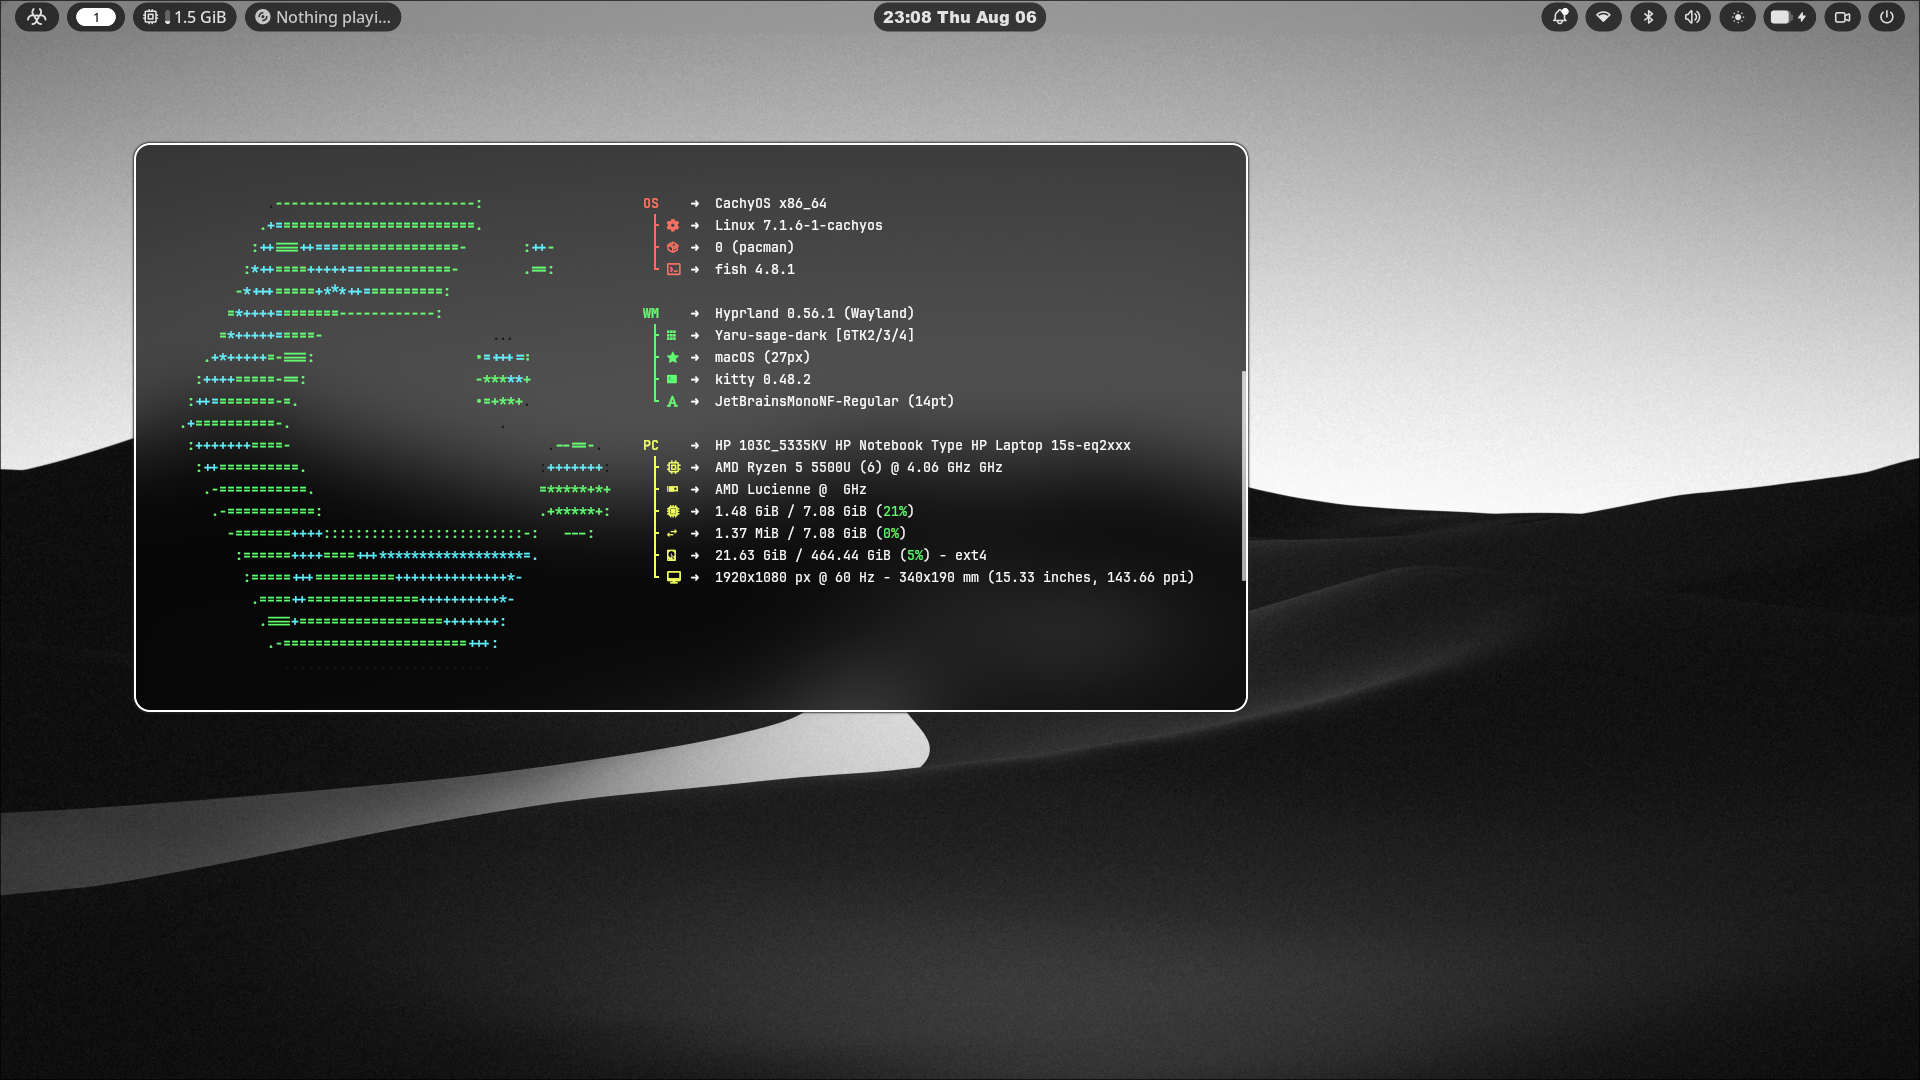
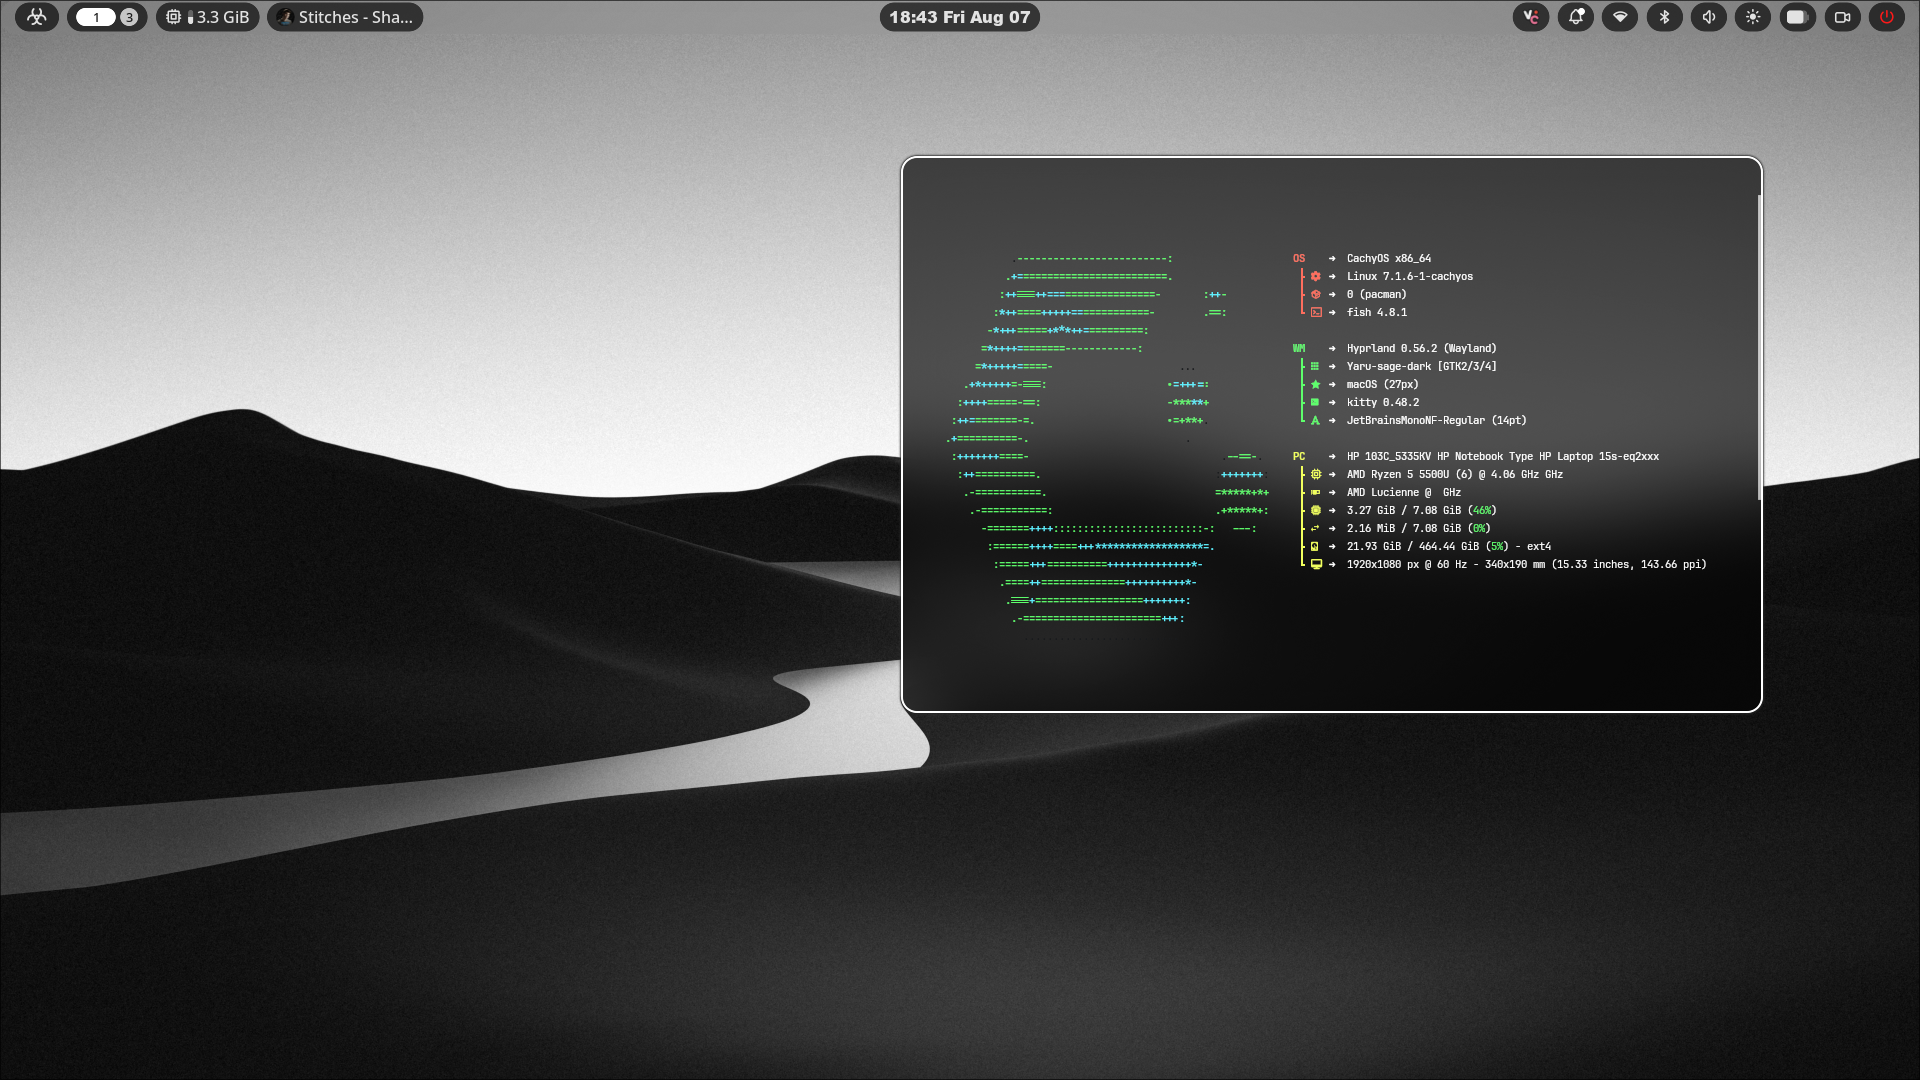
files

diff --git a/vesktop/themes/sys24_monochrome.css b/vesktop/themes/sys24_monochrome.css
@@ -1,0 +1,149 @@
+/* import theme modules */
+@import url('https://refact0r.github.io/system24/build/system24.css');
+
+body {
+    /* font, change to '' for default discord font */
+    --font: 'DM Mono'; /* change to '' for default discord font */
+    --code-font: 'DM Mono'; /* change to '' for default discord font */
+    font-weight: 400; /* text font weight. 300 is light, 400 is normal. DOES NOT AFFECT BOLD TEXT */
+    letter-spacing: -0.05ch; /* decreases letter spacing for better readability. recommended on monospace fonts.*/
+
+    /* sizes */
+    --gap: 12px; /* spacing between panels */
+    --divider-thickness: 4px; /* thickness of unread messages divider and highlighted message borders */
+    --border-thickness: 2px; /* thickness of borders around main panels. DOES NOT AFFECT OTHER BORDERS */
+    --border-hover-transition: 0.2s ease; /* transition for borders when hovered */
+
+    /* animation/transition options */
+    --animations: on; /* off: disable animations/transitions, on: enable animations/transitions */
+    --list-item-transition: 0.2s ease; /* transition for list items */
+    --dms-icon-svg-transition: 0.4s ease; /* transition for the dms icon */
+
+    /* top bar options */
+    --top-bar-height: var(--gap); /* height of the top bar (discord default is 36px, old discord style is 24px, var(--gap) recommended if button position is set to titlebar) */
+    --top-bar-button-position: titlebar; /* off: default position, hide: hide buttons completely, serverlist: move inbox button to server list, titlebar: move inbox button to channel titlebar (will hide title) */
+    --top-bar-title-position: off; /* off: default centered position, hide: hide title completely, left: left align title (like old discord) */
+    --subtle-top-bar-title: off; /* off: default, on: hide the icon and use subtle text color (like old discord) */
+
+    /* window controls */
+    --custom-window-controls: off; /* off: default window controls, on: custom window controls */
+    --window-control-size: 14px; /* size of custom window controls */
+
+    /* dms button options */
+    --custom-dms-icon: off; /* off: use default discord icon, hide: remove icon entirely, custom: use custom icon */
+    --dms-icon-svg-url: url(''); /* icon svg url. MUST BE A SVG. */
+    --dms-icon-svg-size: 90%; /* size of the svg (css mask-size property) */
+    --dms-icon-color-before: var(--icon-subtle); /* normal icon color */
+    --dms-icon-color-after: var(--white); /* icon color when button is hovered/selected */
+    --custom-dms-background: off; /* off to disable, image to use a background image (must set url variable below), color to use a custom color/gradient */
+    --dms-background-image-url: url(''); /* url of the background image */
+    --dms-background-image-size: cover; /* size of the background image (css background-size property) */
+    --dms-background-color: linear-gradient(70deg, var(--green-4), var(--green-2), var(--green-1)); /* fixed color/gradient (css background property) */
+
+    /* background image options */
+    --background-image: off; /* off: no background image, on: enable background image (must set url variable below) */
+    --background-image-url: url(''); /* url of the background image */
+
+    /* transparency/blur options */
+    /* NOTE: TO USE TRANSPARENCY/BLUR, YOU MUST HAVE TRANSPARENT BG COLORS. FOR EXAMPLE: --bg-4: hsla(220, 15%, 10%, 0.7); */
+    --transparency-tweaks: off; /* off: no changes, on: remove some elements for better transparency */
+    --remove-bg-layer: off; /* off: no changes, on: remove the base --bg-3 layer for use with window transparency (WILL OVERRIDE BACKGROUND IMAGE) */
+    --panel-blur: off; /* off: no changes, on: blur the background of panels */
+    --blur-amount: 12px; /* amount of blur */
+    --bg-floating: var(--bg-3); /* set this to a more opaque color if floating panels look too transparent. only applies if panel blur is on  */
+
+    /* other options */
+    --small-user-panel: on; /* off: default user panel, on: smaller user panel like in old discord */
+
+    /* unrounding options */
+    --unrounding: on; /* off: default, on: remove rounded corners from panels */
+
+    /* styling options */
+    --custom-spotify-bar: on; /* off: default, on: custom text-like spotify progress bar */
+    --ascii-titles: on; /* off: default, on: use ascii font for titles at the start of a channel */
+    --ascii-loader: cats; /* off: default, system24: use system24 ascii loader, cats: use cats loader */
+
+    /* panel labels */
+    --panel-labels: on; /* off: default, on: add labels to panels */
+    --label-color: var(--text-muted); /* color of labels */
+    --label-font-weight: 500; /* font weight of labels */
+}
+
+/* color options - matched to a monochrome grayscale desert wallpaper */
+:root {
+    --colors: on; /* off: discord default colors, on: midnight custom colors */
+
+    /* text colors */
+    --text-0: var(--bg-4); /* text on colored elements */
+    --text-1: oklch(97% 0 0); /* other normally white text */
+    --text-2: oklch(88% 0 0); /* headings and important text */
+    --text-3: oklch(76% 0 0); /* normal text */
+    --text-4: oklch(58% 0 0); /* icon buttons and channels */
+    --text-5: oklch(40% 0 0); /* muted channels/chats and timestamps */
+
+    /* background and dark colors - pure near-black like the desert night sky/dunes */
+    --bg-1: oklch(30% 0 0); /* dark buttons when clicked */
+    --bg-2: oklch(25% 0 0); /* dark buttons */
+    --bg-3: oklch(19% 0 0); /* spacing, secondary elements */
+    --bg-4: oklch(13% 0 0); /* main background color */
+    --hover: oklch(90% 0 0 / 0.1); /* channels and buttons when hovered */
+    --active: oklch(90% 0 0 / 0.18); /* channels and buttons when clicked or selected */
+    --active-2: oklch(90% 0 0 / 0.28); /* extra state for transparent buttons */
+    --message-hover: var(--hover); /* messages when hovered */
+
+    /* accent colors - the pale moonlit white of the river/dunes and spectrum bars */
+    --accent-1: var(--green-1); /* links and other accent text */
+    --accent-2: var(--green-2); /* small accent elements */
+    --accent-3: var(--green-3); /* accent buttons */
+    --accent-4: var(--green-4); /* accent buttons when hovered */
+    --accent-5: var(--green-5); /* accent buttons when clicked */
+    --accent-new: var(--red-2); /* stuff that's normally red like mute/deafen buttons */
+    --mention: linear-gradient(to right, color-mix(in hsl, var(--accent-2), transparent 90%) 40%, transparent); /* background of messages that mention you */
+    --mention-hover: linear-gradient(to right, color-mix(in hsl, var(--accent-2), transparent 95%) 40%, transparent); /* background of messages that mention you when hovered */
+    --reply: linear-gradient(to right, color-mix(in hsl, var(--text-3), transparent 90%) 40%, transparent); /* background of messages that reply to you */
+    --reply-hover: linear-gradient(to right, color-mix(in hsl, var(--text-3), transparent 95%) 40%, transparent); /* background of messages that reply to you when hovered */
+
+    /* status indicator colors */
+    --online: #23a55a; /* default discord online green */
+    --dnd: var(--red-2); /* change to #d83a41 for default */
+    --idle: var(--yellow-2); /* change to #cc954c for default */
+    --streaming: var(--green-3); /* change to ##9147ff for default */
+    --offline: var(--text-4); /* change to #82838b for default offline color */
+
+    /* border colors */
+    --border-light: var(--hover); /* general light border color */
+    --border: var(--active); /* general normal border color */
+    --border-hover: var(--accent-2); /* border color of panels when hovered */
+    --button-border: hsl(220, 0%, 100%, 0.1); /* neutral border color of buttons */
+
+    /* base colors */
+    --red-1: oklch(75% 0.13 0);
+    --red-2: oklch(70% 0.13 0);
+    --red-3: oklch(65% 0.13 0);
+    --red-4: oklch(60% 0.13 0);
+    --red-5: oklch(55% 0.13 0);
+
+    --green-1: oklch(97% 0 0); /* pale moonlit white, used as the primary accent */
+    --green-2: oklch(90% 0 0);
+    --green-3: oklch(80% 0 0);
+    --green-4: oklch(68% 0 0);
+    --green-5: oklch(56% 0 0);
+
+    --blue-1: oklch(75% 0.11 215);
+    --blue-2: oklch(70% 0.11 215);
+    --blue-3: oklch(65% 0.11 215);
+    --blue-4: oklch(60% 0.11 215);
+    --blue-5: oklch(55% 0.11 215);
+
+    --yellow-1: oklch(80% 0.12 90);
+    --yellow-2: oklch(75% 0.12 90);
+    --yellow-3: oklch(70% 0.12 90);
+    --yellow-4: oklch(65% 0.12 90);
+    --yellow-5: oklch(60% 0.12 90);
+
+    --purple-1: oklch(75% 0.12 310);
+    --purple-2: oklch(70% 0.12 310);
+    --purple-3: oklch(65% 0.12 310);
+    --purple-4: oklch(60% 0.12 310);
+    --purple-5: oklch(55% 0.12 310);
+}
